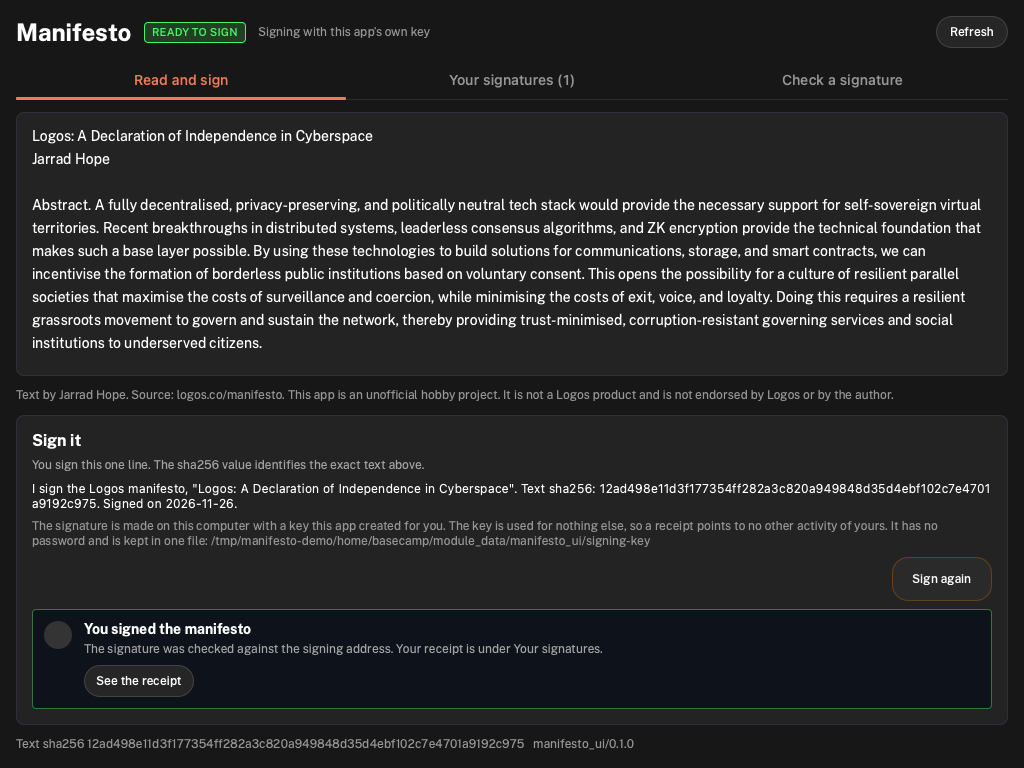
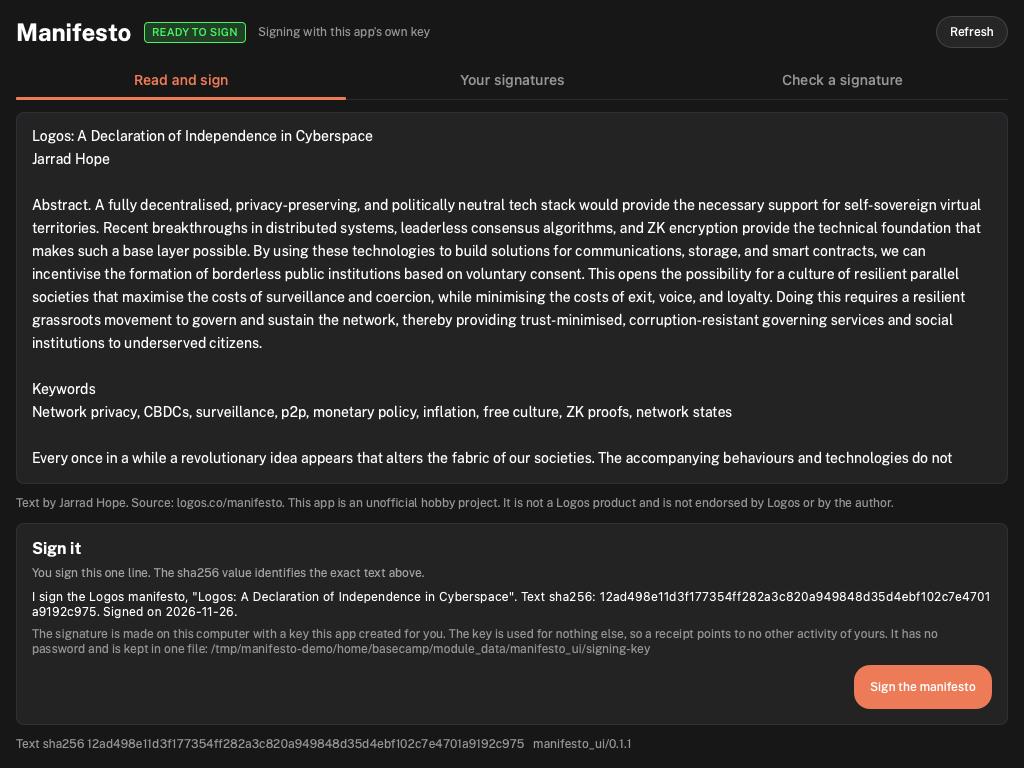
0.1.1: make Sign the primary button
Also notes an outside Linux test in the README.

Changed region(s): [[0.0, 0.5, 0.9688, 0.9375], [0.4375, 0.0938, 0.5625, 0.125]]

diff --git a/src/qml/Main.qml b/src/qml/Main.qml
@@ -309,6 +309,8 @@ Item {
                             }
                             LogosButton {
                                 objectName: "signButton"
+                                // The screen's one main action.
+                                variant: LogosButton.Variant.Primary
                                 text: root.busy ? "Waiting for the Signer…"
                                       : (root.chosen && root.chosen.signed ? "Sign again" : "Sign the manifesto")
                                 enabled: root.ready && !root.busy && root.chosen !== null && root.chosen.available !== false

diff --git a/README.md b/README.md
@@ -17,17 +17,17 @@ only: not on Windows, Intel Macs, phones or tablets.
 The manifesto is "Logos: A Declaration of Independence in Cyberspace" by Jarrad Hope. Source:
 <https://logos.co/manifesto>. See [NOTICE.md](NOTICE.md).
 
-![The app after signing](docs/screenshot.png)
+![The Manifesto app](docs/screenshot.png)
 
 ## Status
 
-Version 0.1.0, 26 November 2026. This version signs and verifies on one computer and exports the
+Version 0.1.1, 26 November 2026. This version signs and verifies on one computer and exports the
 receipt. There is no shared list of signers yet.
 
 | Platform | State |
 |---|---|
 | macOS, Apple Silicon | Built, tested headless, and used in Basecamp |
-| Linux x86_64 and ARM64 | Built and tested by CI (see the Actions tab for the latest run); not tried in Basecamp by hand |
+| Linux x86_64 and ARM64 | Built and tested by CI (see the Actions tab for the latest run). An outside tester built it from source on Linux, ran it in Basecamp, signed, and verified the receipt with a separate Ethereum library |
 | Intel Macs, phones, tablets | Not supported. Basecamp itself has no build for them |
 | Windows | Not supported. The Windows code paths have never been compiled |
 

diff --git a/docs/INSTALL.md b/docs/INSTALL.md
@@ -20,7 +20,7 @@ This works on **desktop and laptop computers running macOS or Linux**.
 | Your computer | Does it work? |
 |---|---|
 | Mac with an Apple chip (M1, M2, M3, M4 or newer) | Yes |
-| Linux desktop or laptop (Intel, AMD or ARM, 64-bit) | Yes. Tested automatically, not yet by hand in Basecamp. If something fails, please report it (link near the end) |
+| Linux desktop or laptop (Intel, AMD or ARM, 64-bit) | Yes |
 | Windows | No, not yet. Basecamp's download page has a Windows file (`setup.exe`), but the Manifesto app has no Windows version, so do not continue on Windows |
 | Mac with an Intel processor | No |
 | Phone or tablet (iPhone, iPad, Android) | No |
